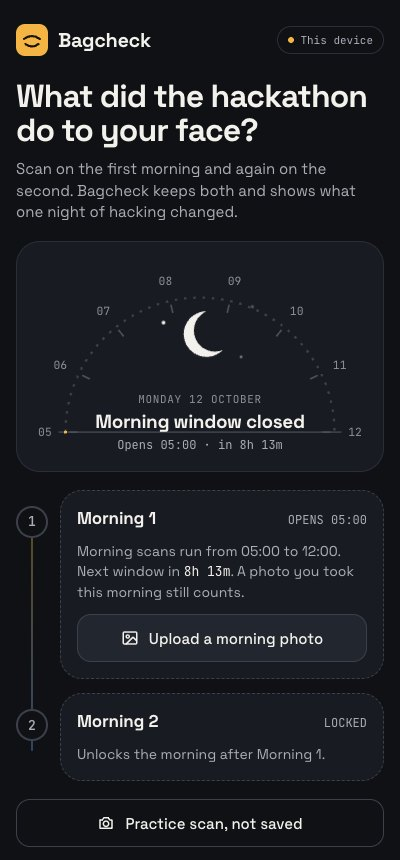
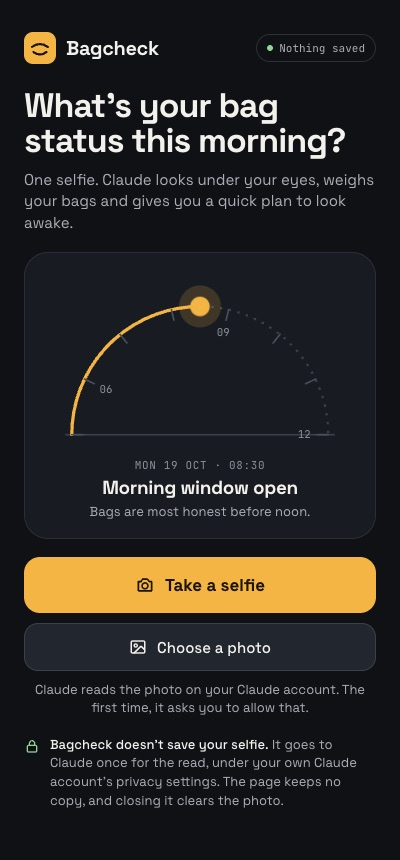
Point bagcheck.app to the single selfie version
Bagcheck is now a morning app for anyone: one selfie, nothing saved,
and the result is an airport bag tag. The window copy and screenshot
describe the new version.

diff --git a/site/index.html b/site/index.html
@@ -1068,17 +1068,18 @@ ul.ticks li::before{content:"";position:absolute;left:2px;top:.55em;width:9px;he
 <template id="t-bagcheck">
   <div class="bag">
     <div class="stack">
-      <div class="pillrow"><span class="pill bonus">Bonus</span><span class="pill">Built over the hackathon weekend</span></div>
+      <div class="pillrow"><span class="pill bonus">Bonus</span><span class="pill">Started over a hackathon weekend</span></div>
       <h2>Bagcheck</h2>
-      <p class="lead">What did the hackathon do to your face?</p>
-      <p>A joke app for the morning after. Scan a selfie on the first morning and again on the second, and Claude scores how tired you look: puffiness under the eyes, dark circles, dull skin and red eyes. Then it gives you a fix that takes 20 minutes, so you're ready to pitch, and a slider puts Day 1 next to Day 2.</p>
+      <p class="lead">What's your bag status this morning?</p>
+      <p>A joke app for any morning. Take one selfie and Claude scores how tired you look: puffiness under the eyes, dark circles, dull skin and red eyes. The result comes as an airport bag tag. Tiredness turns into kilos, and anything over 23 kg gets a HEAVY tag. Then you get five quick fixes to look awake.</p>
       <ul class="ticks" style="--accent:#F5B544">
-        <li>The practice scan works any time. Real scans open between 05:00 and 12:00.</li>
-        <li>Claude reads the photo you give it. Just for fun, not a medical reading.</li>
+        <li>Bagcheck doesn't save your selfie. Closing the page clears it.</li>
+        <li>Open it signed in to Claude for Claude's read. Without that, you get a rough read in your browser.</li>
+        <li>Just for fun, not a medical reading.</li>
       </ul>
-      <div class="btnrow"><a class="btn amber" href="https://claude.ai/artifact/NDdVrRZBABqCvBdyMomyNG" target="_blank" rel="noopener">Try Bagcheck ↗</a></div>
+      <div class="btnrow"><a class="btn amber" href="https://claude.ai/artifact/Syensr9zNWUv8Tucw53soQ" target="_blank" rel="noopener">Try Bagcheck ↗</a></div>
     </div>
-    <img class="bagshot" src="media/bagcheck.jpg" alt="Bagcheck home screen: a dial for the morning window and two morning scans" loading="lazy">
+    <img class="bagshot" src="media/bagcheck.jpg" alt="Bagcheck home screen: a dial for the morning window and a button to take a selfie" loading="lazy">
   </div>
 </template>
 
